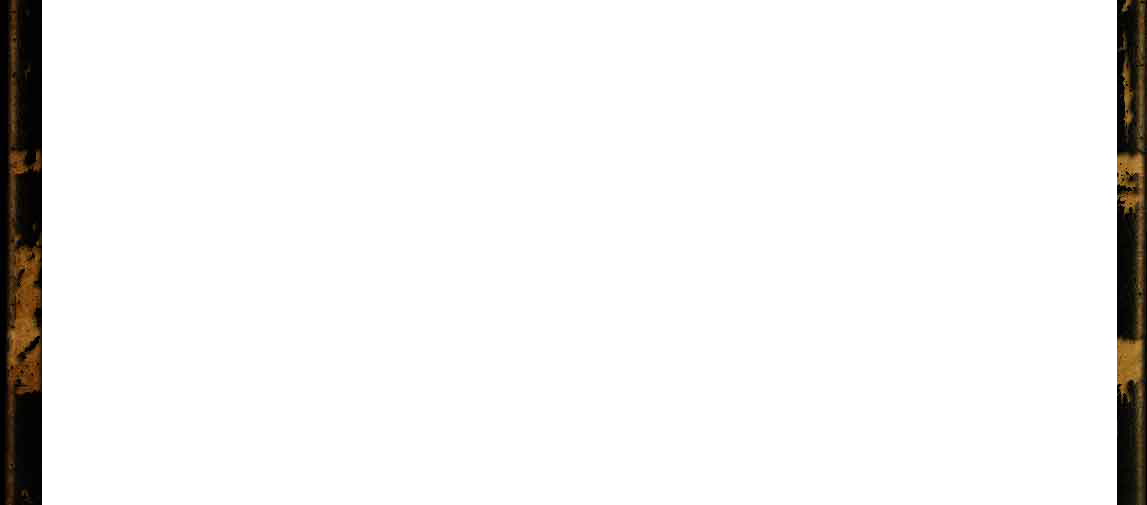
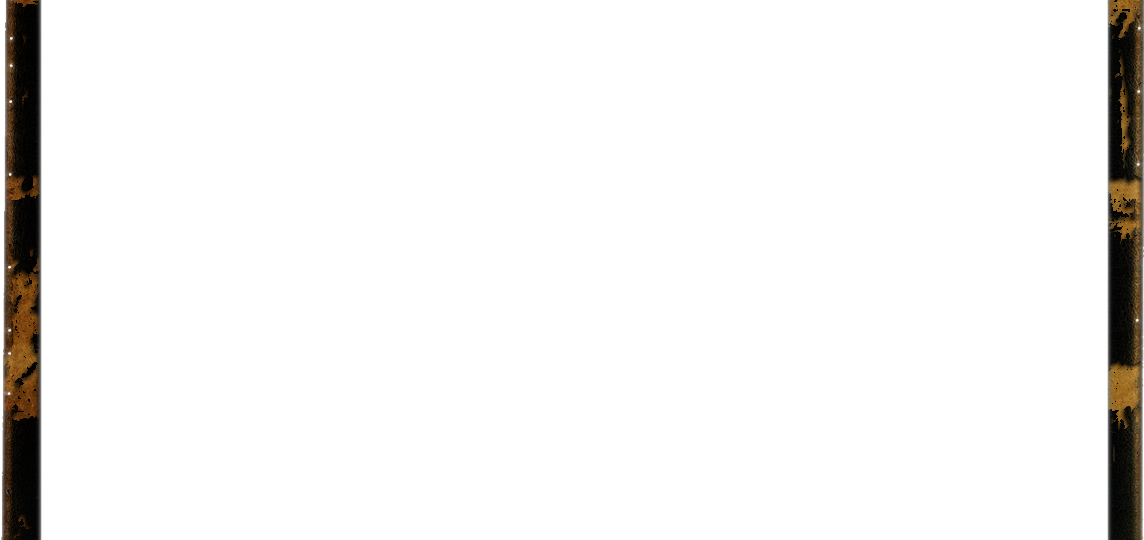
détail css fond et contour externe

Changed region(s): [[0.9484, 0.0, 1.0, 1.0], [0.0, 0.0, 0.0612, 1.0]]

diff --git a/src/drvoy/skin/static/style.css b/src/drvoy/skin/static/style.css
@@ -30,9 +30,6 @@ margin:auto;
 min-height:1000px;
 width:1145px;
 margin:auto;
-background-image: url(images/main_text.png);
-background-repeat:repeat-y;
-background-position:center;
 }
 
 header{
@@ -100,9 +97,10 @@ border-left:none !important;
 }
 
 #main-content{
+min-height:712px;
 background-image: url(images/main_content.png);
 background-repeat:repeat-y;
-min-height:712px;
+background-position:left top;
 }
 
 #main-column{
@@ -111,6 +109,10 @@ left:2px;
 width:1067px;
 min-height:680px;
 margin:auto;
+background-image: url(images/main_text.png);
+background-repeat:repeat-y;
+background-position:left top;
+
 }
 
 
